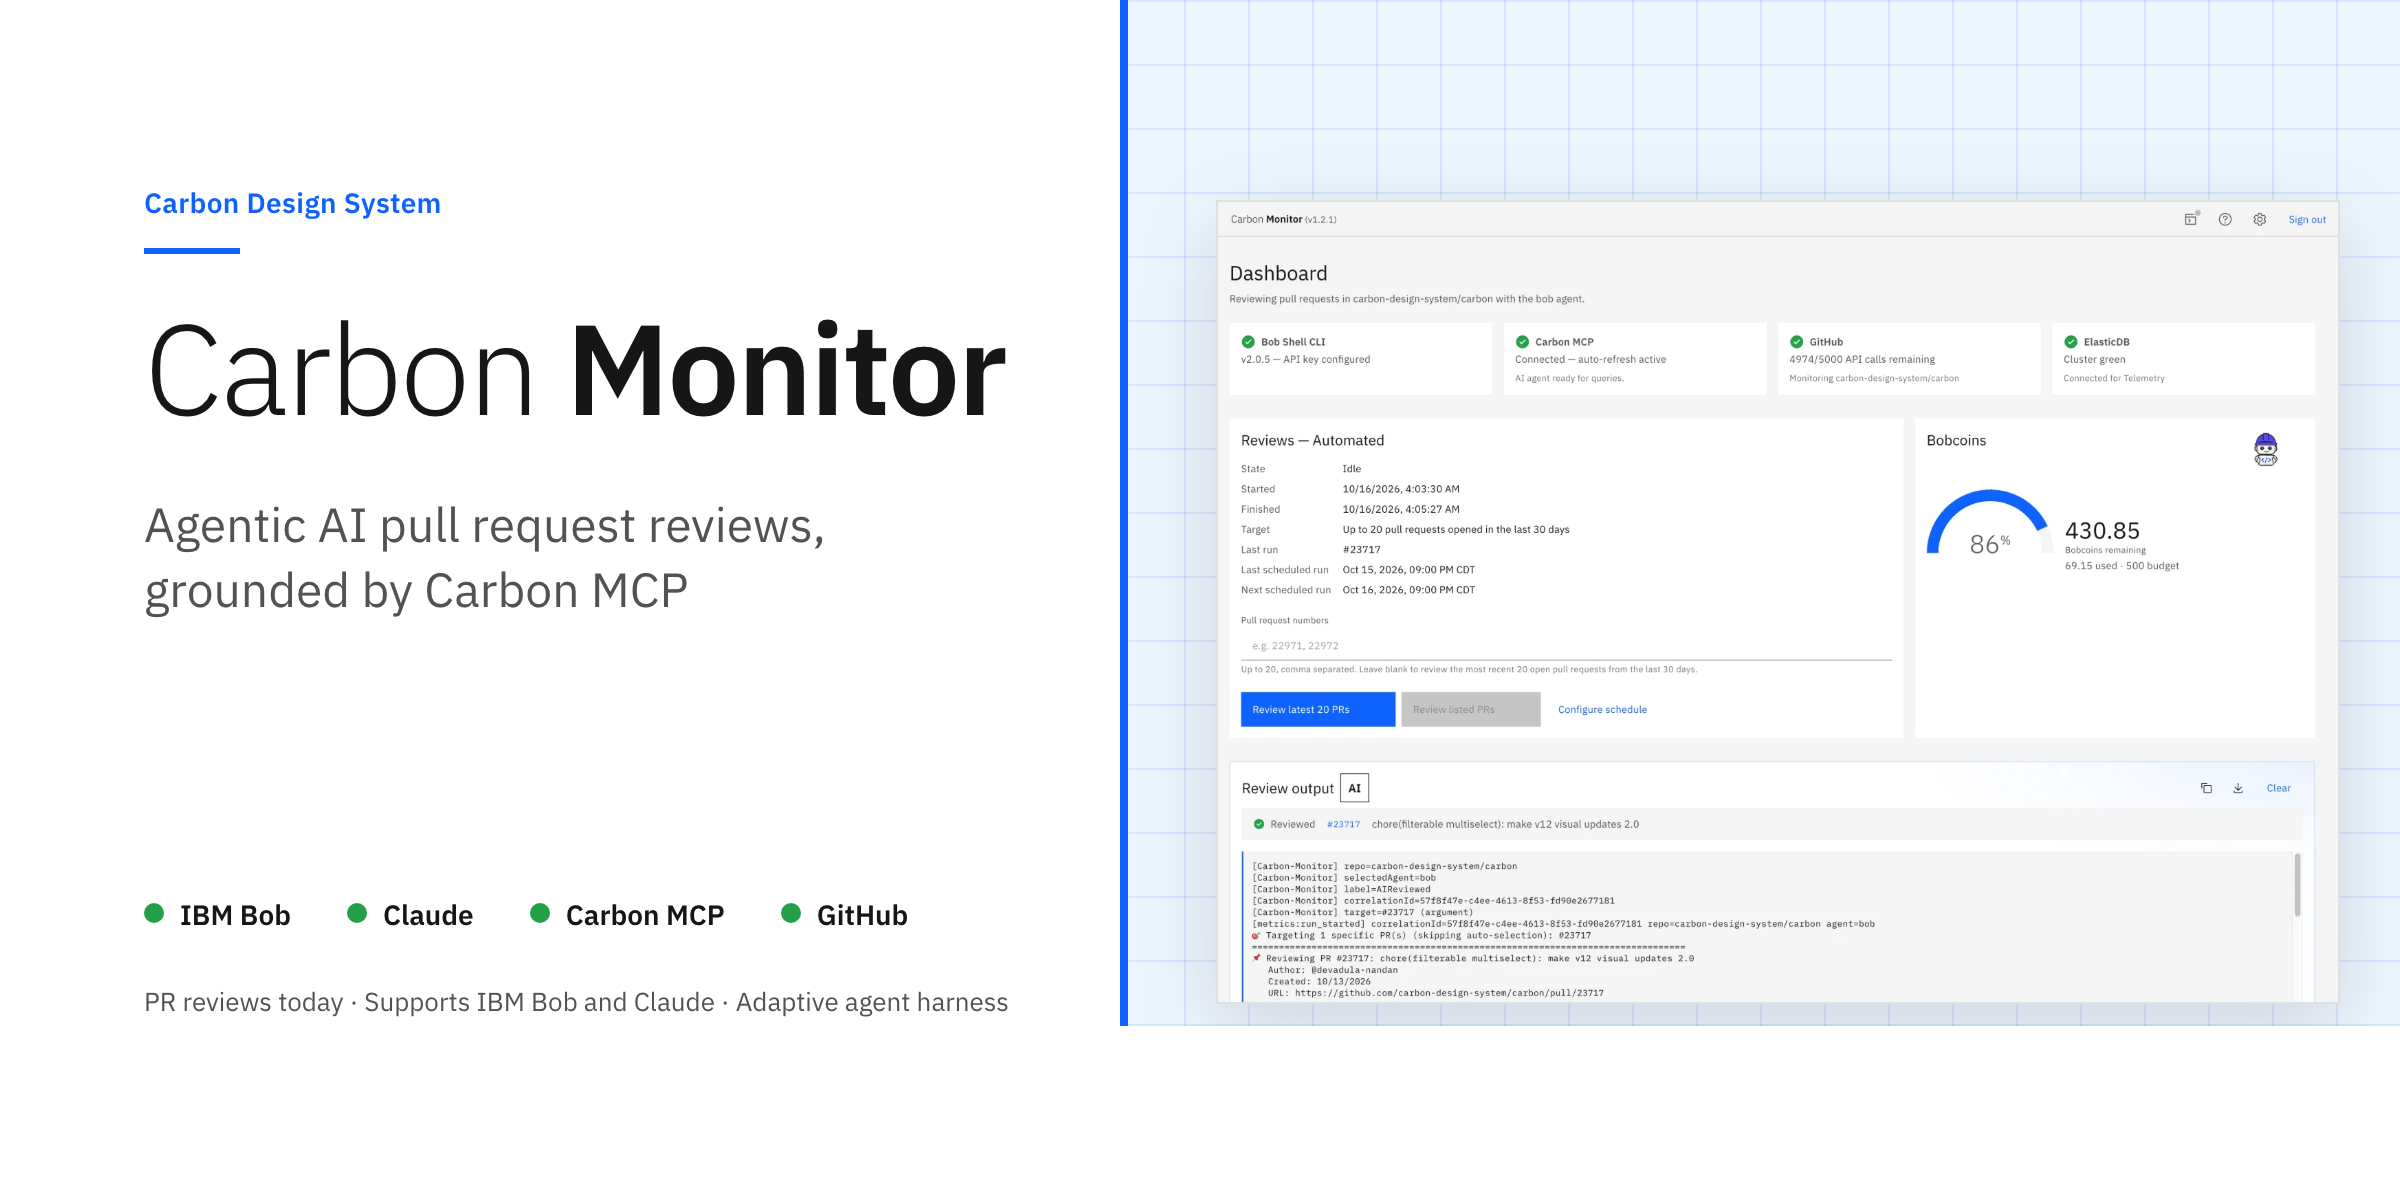
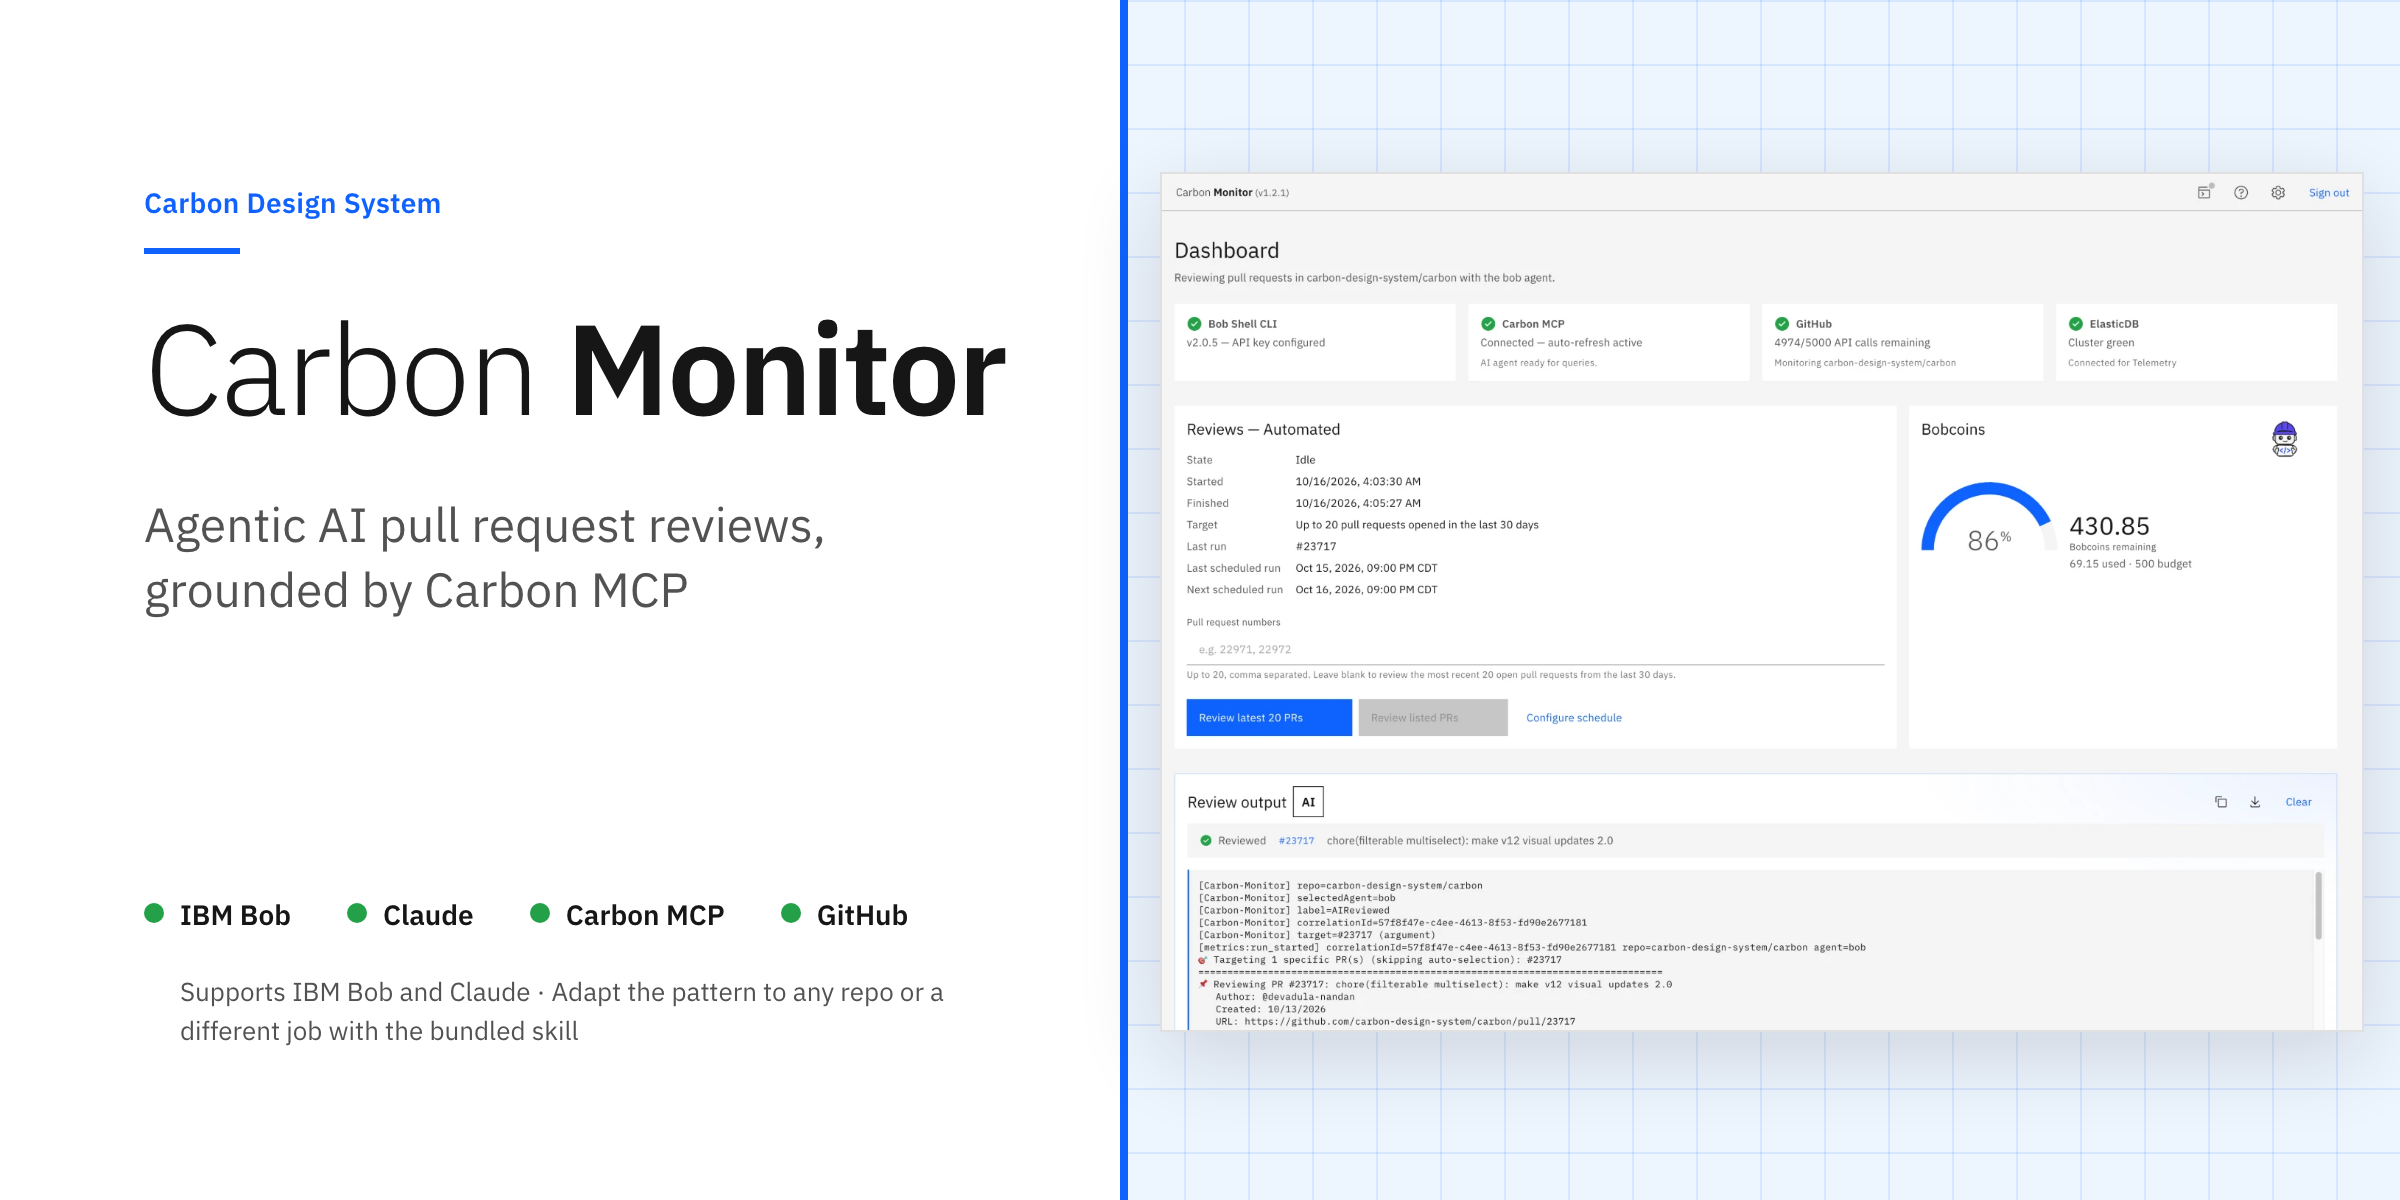
docs(README): minor update to readme

diff --git a/docs/images/hero.html b/docs/images/hero.html
@@ -21,8 +21,8 @@ h1 b{font-weight:600}
 .tag{position:absolute;top:246px;margin:0;font-size:24px;line-height:1.35;font-weight:400;color:#525252}
 .deps{position:absolute;top:448px;left:0;display:flex;gap:28px;font-size:14px;font-weight:600;color:#161616}
 .deps span::before{content:'';display:inline-block;width:10px;height:10px;border-radius:50%;background:#24a148;margin-right:8px;vertical-align:1px}
-.mono{position:absolute;top:492px;font-size:13px;white-space:nowrap;color:#525252}
-.frame{position:absolute;left:608px;top:100px;width:560px;height:400px;background:#f4f4f4 url('dashboard.webp') no-repeat 0 0;background-size:560px auto;
+.mono{position:absolute;top:486px;left:18px;width:434px;font-size:13px;line-height:1.5;color:#525252}
+.frame{position:absolute;left:580px;top:86px;width:600px;height:428px;background:#f4f4f4 url('dashboard.webp') no-repeat 0 0;background-size:600px auto;
   border:1px solid #e0e0e0;box-shadow:0 12px 40px rgba(22,22,22,.14)}
 </style></head><body>
 <div class="field"></div><div class="bar"></div>
@@ -31,7 +31,7 @@ h1 b{font-weight:600}
   <h1>Carbon <b>Monitor</b></h1>
   <p class="tag">Agentic AI pull request reviews,<br>grounded by Carbon MCP</p>
   <div class="deps"><span>IBM Bob</span><span>Claude</span><span>Carbon MCP</span><span>GitHub</span></div>
-  <div class="mono">PR reviews today  ·  Supports IBM Bob and Claude  ·  Adaptive agent harness</div>
+  <div class="mono">Supports IBM Bob and Claude  ·  Adapt the pattern to any repo or a different job with the bundled skill</div>
 </div>
 <div class="frame"></div>
 </body></html>

diff --git a/README.md b/README.md
@@ -1,4 +1,4 @@
-<p align="center"><img src="docs/images/hero.png" width="100%" alt="Carbon Monitor: Agentic AI pull request reviews, grounded by Carbon MCP. IBM Bob, Claude, Carbon MCP, GitHub. PR reviews today, supports IBM Bob and Claude, adaptive agent harness."></p>
+<p align="center"><img src="docs/images/hero.png" width="100%" alt="Carbon Monitor: Agentic AI pull request reviews, grounded by Carbon MCP. IBM Bob, Claude, Carbon MCP, GitHub. supports IBM Bob and Claude, adapt the pattern to any repo or a different job with the bundled skill."></p>
 
 # Carbon Monitor
 
@@ -12,11 +12,13 @@ server, and the result lands on the PR as one review of inline comments and a
 summary with a recommendation. A clean PR gets one short verdict comment
 instead. It is also a harness for running any agent on a schedule in IBM Cloud, with cost
 tracking, telemetry and a Slack report, that you can point at your own
-repository or your own job.
+repository or your own job. A skill adapts it for you. It asks up to ten
+questions and writes the SPEC you build from, and you keep the Cloud deploy,
+cost caps, telemetry and Slack report as they are.
 
 <p align="center">
   <a href="#quick-start"><strong>Quick start</strong></a> ·
-  <a href="#built-as-a-harness"><strong>Reuse the harness</strong></a> ·
+  <a href="#adapt-it-with-a-skill"><strong>Adapt it with a skill</strong></a> ·
   <a href="#how-a-review-works"><strong>How a review works</strong></a> ·
   <a href="#deploy"><strong>Deploy</strong></a> ·
   <a href="docs/ARCHITECTURE.md"><strong>Architecture</strong></a> ·
@@ -54,7 +56,7 @@ agent's own unit. Each agent runs in its own private configuration directory, so
 | **Post**   | Findings of `minor` severity or above that map to a diff line go out as inline comments in one GitHub review. The rest, plus the summary and recommendation, go in one PR comment, with any nits in a collapsed list; nits are never inline. A clean PR gets one short verdict comment and no review. A partial review says so in that comment and lists the files it did not cover. If no file fits the budget, no agent runs and the PR gets a Not Reviewed comment. The `AIReviewed` label is added.                                                                                                                                                    |
 | **Report** | Scheduled runs post a digest to Slack when `SLACK_WEBHOOK_URL` is set. Review events are written to Elasticsearch for the Kibana dashboard.                                                                                                                                                                                                                                                                                                                                                                                                                                                                                                                |
 
-## Built as a harness
+## Adapt it with a skill
 
 The agent is IBM Bob or Claude. Carbon Monitor is the harness around it:
 everything that runs it on a schedule in IBM Cloud, pays for it, logs it, and
